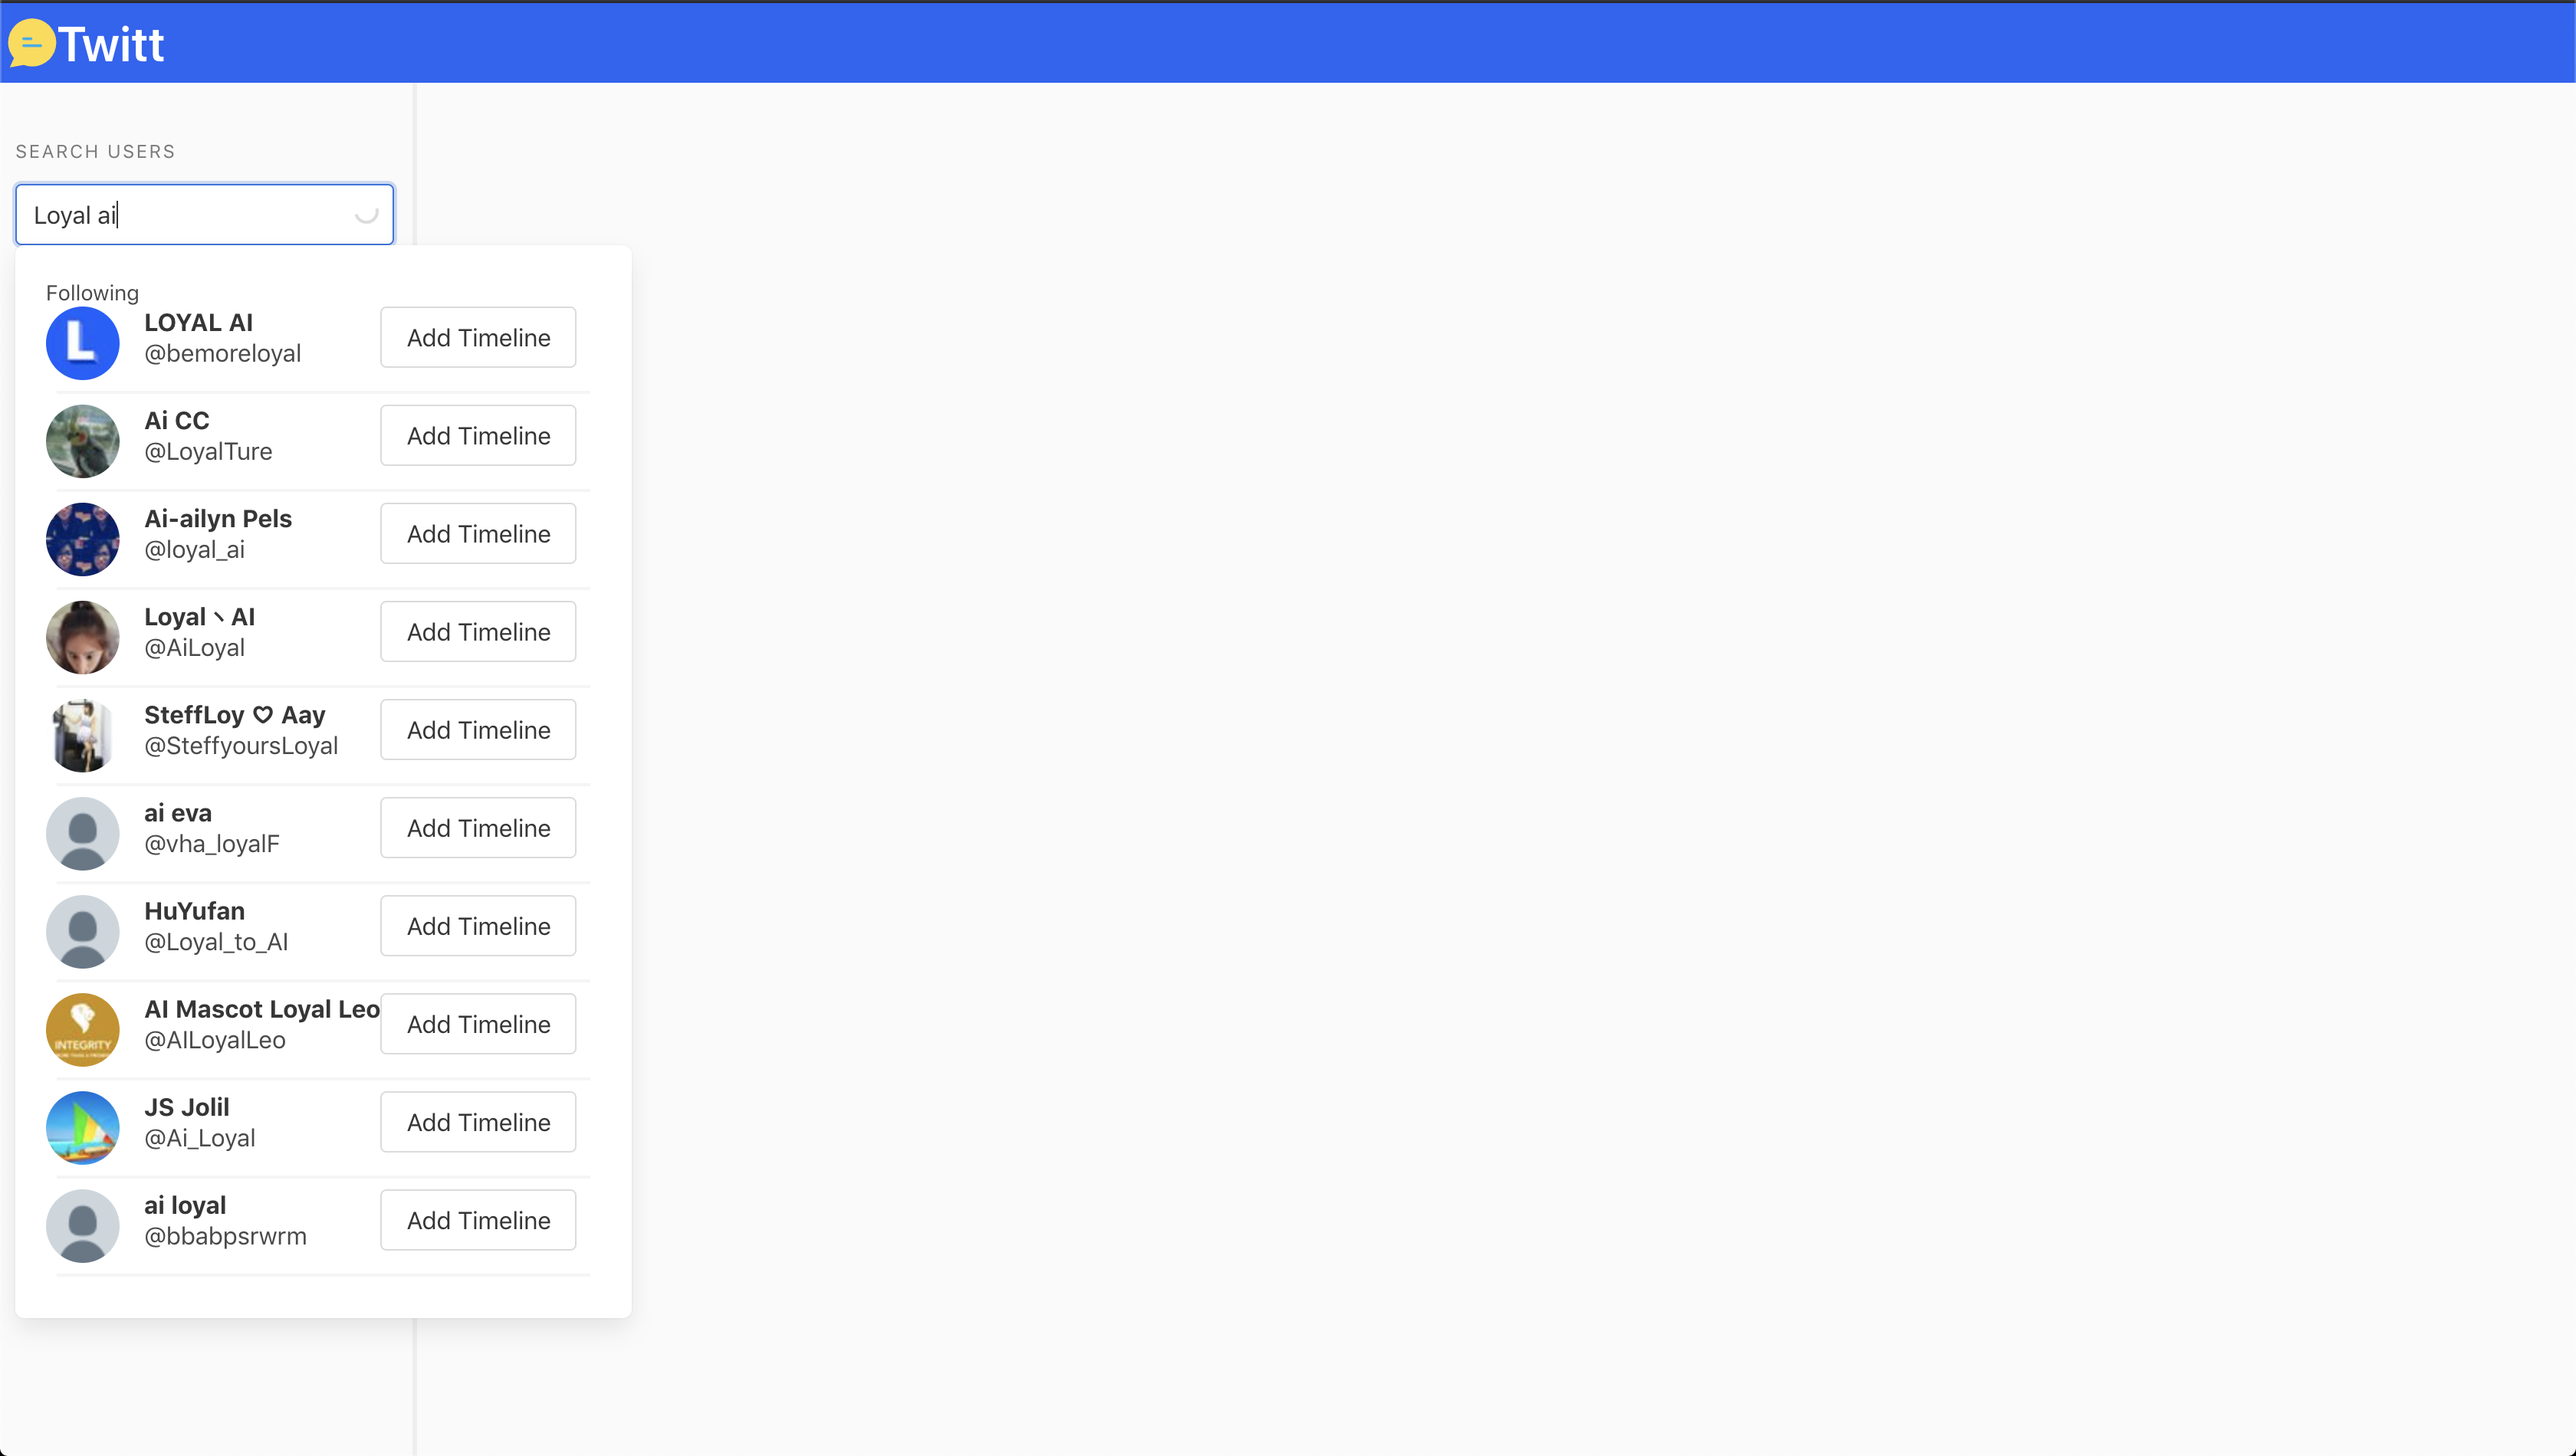
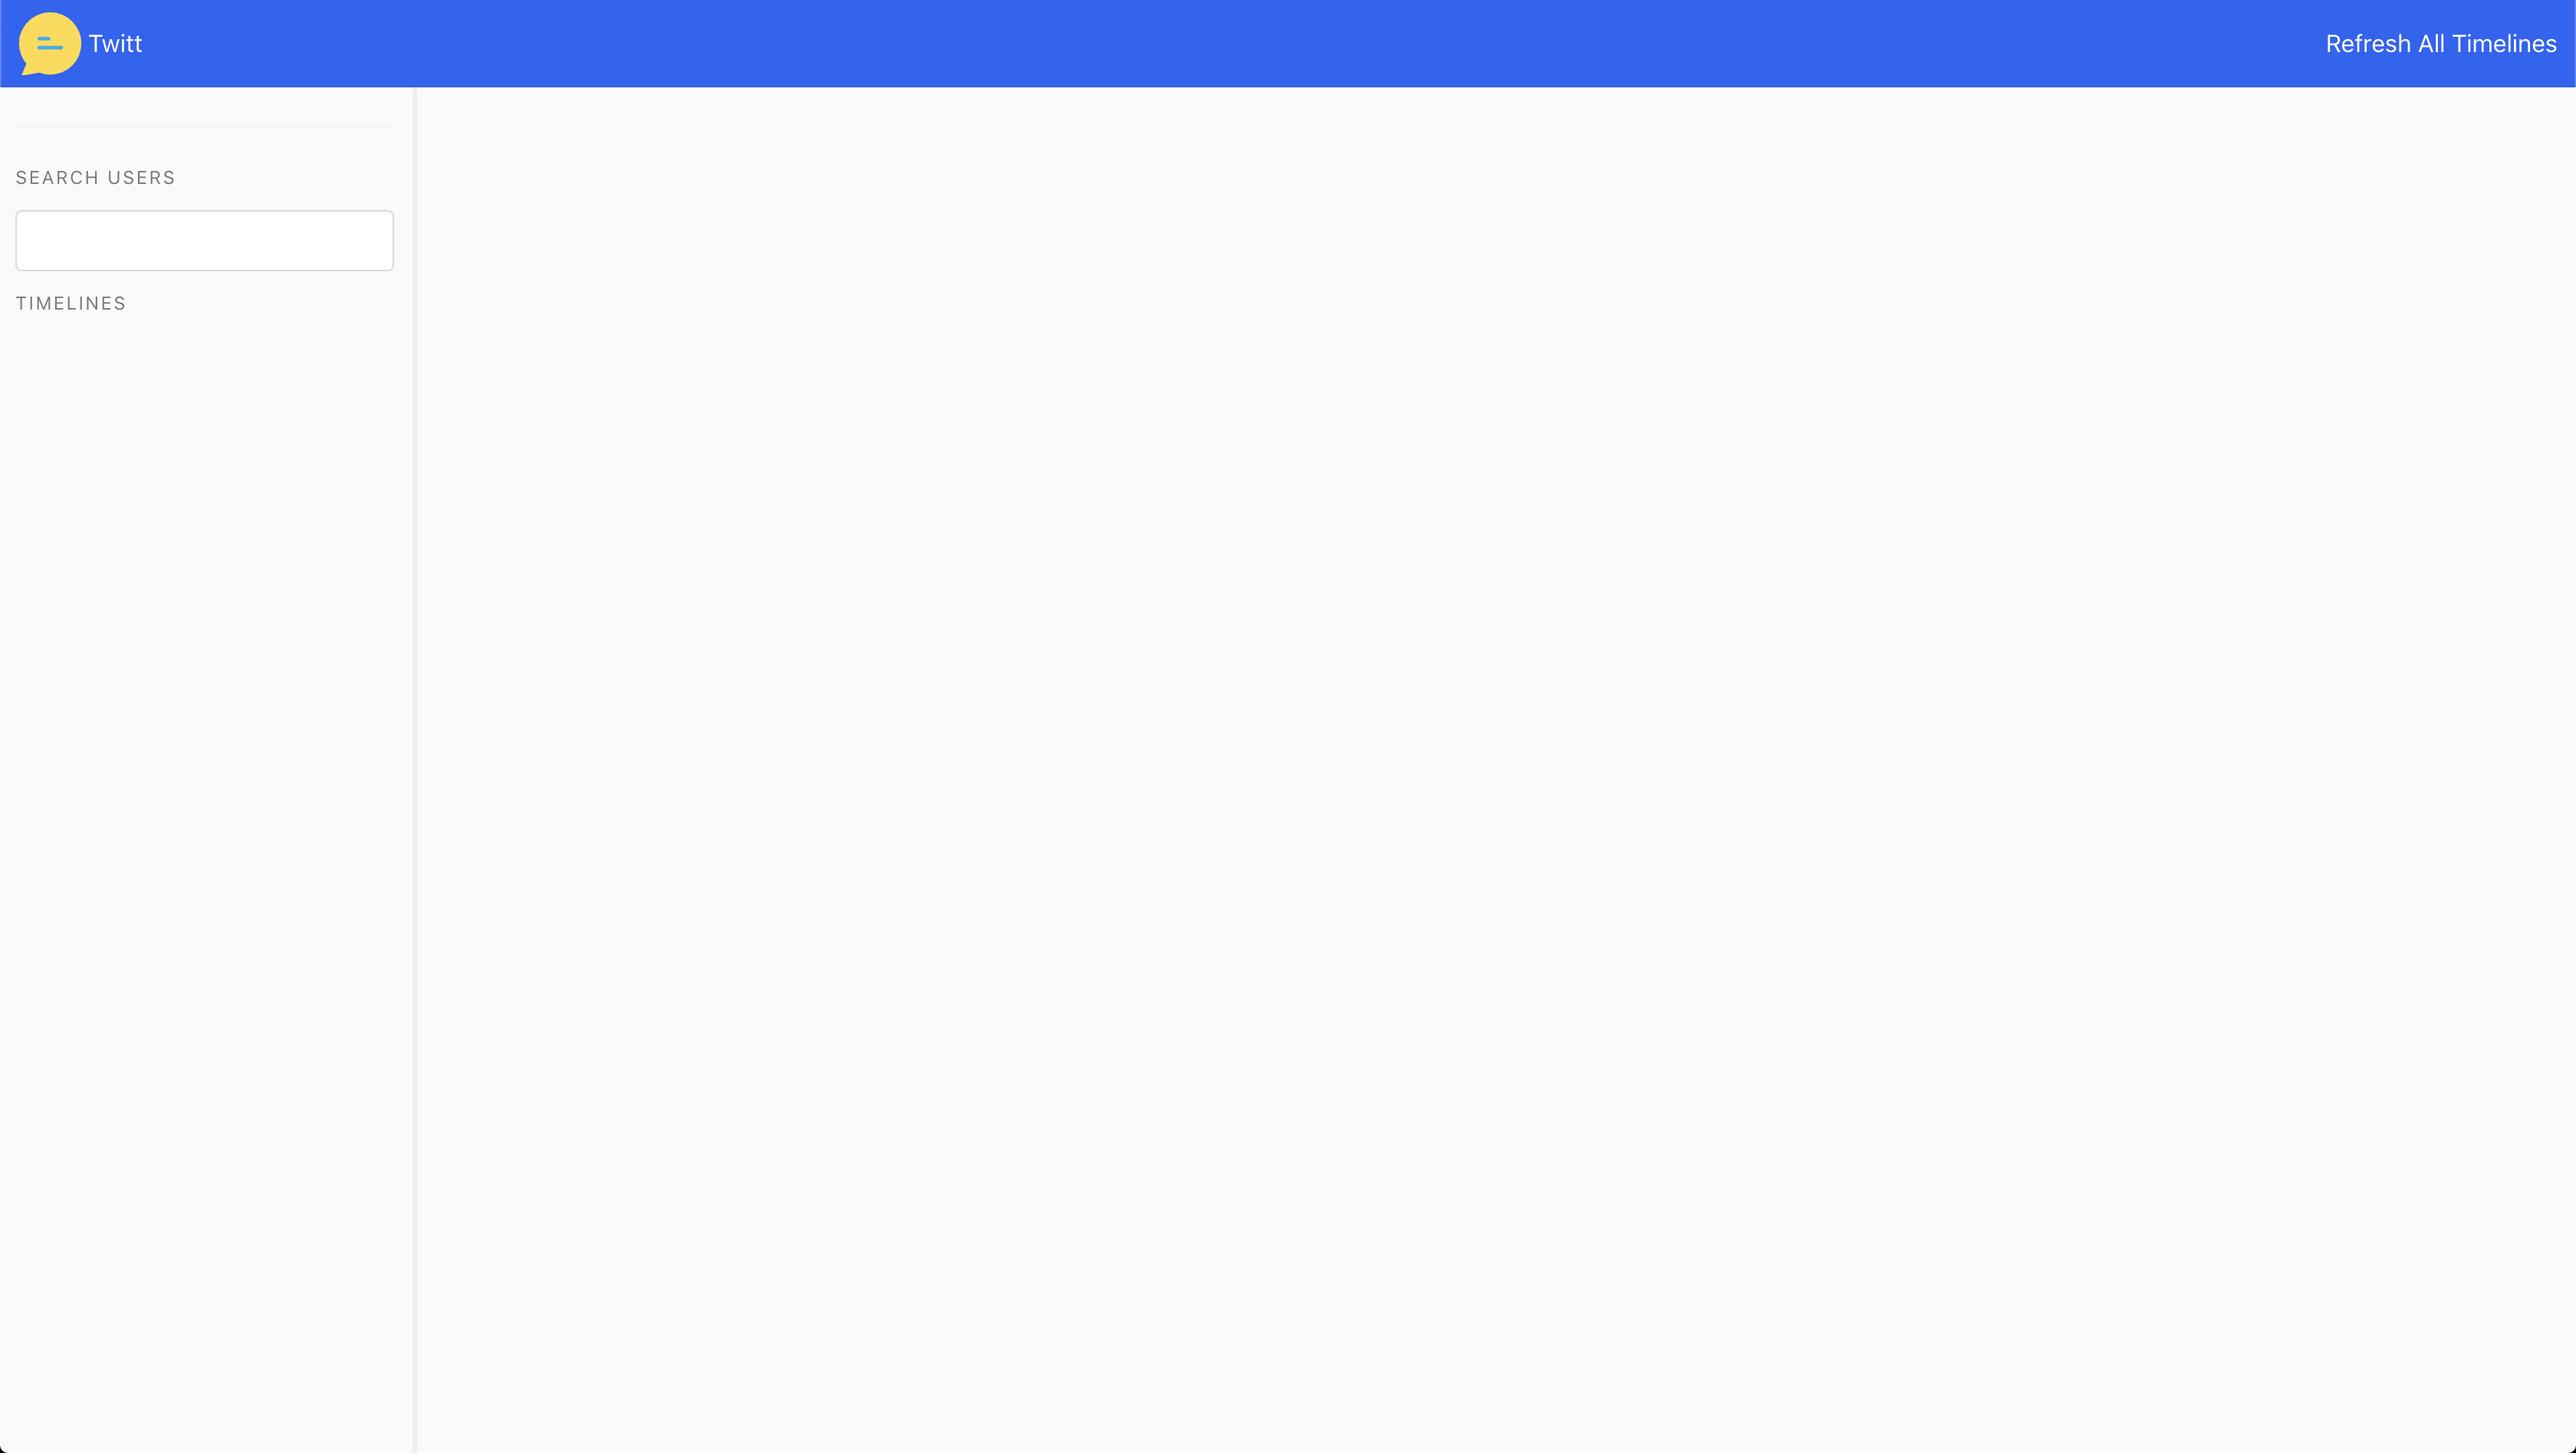
More Pics

diff --git a/README.md b/README.md
@@ -6,11 +6,29 @@ A application to show twitter timelines with user search and autocompletition
 
 ![](./public/app-preview0.png)
 
+UI Without Timelines Added yet
+
 ![](./public/app-preview1.png)
+
+Auto Completion for a twitter screen name
 
 ![](./public/app-preview2.png)
 
-![](./public/app-preview3.png)
+Added Timeline to Timelines
+
+![](./public/app-preview4.png)
+
+Added another Timeline to Timelines
+
+Timelines with Image and Video Tweets
+
+![](./public/app-preview6.png)
+
+Timelines with Link Meta Data Preview
+
+
+
+
 
 
 <br/>
@@ -156,7 +174,7 @@ npm install
 
 2 - Start the Redis Docker Container
 ```bash
-docker-compose up &&
+docker-compose up &
 ```
 
 1 - Create and .env file at root of project with the following structure 
